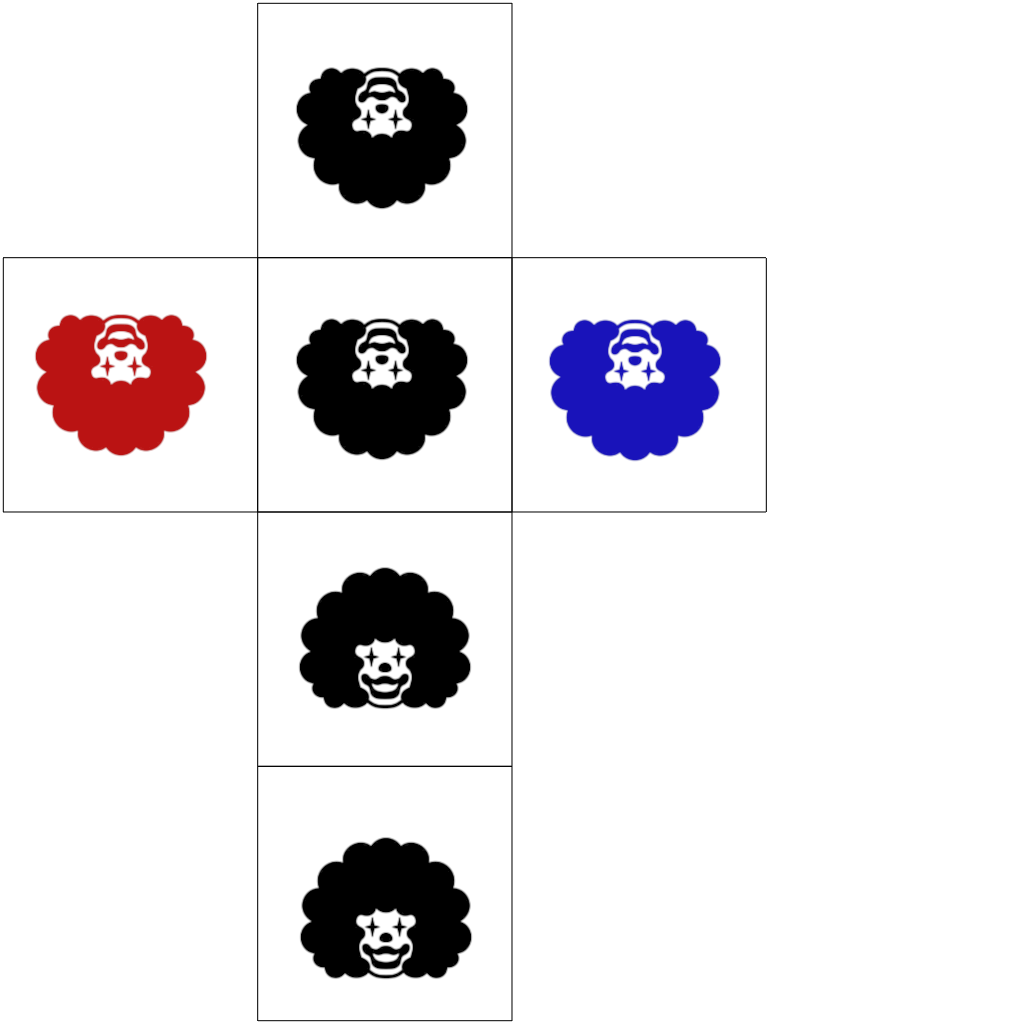
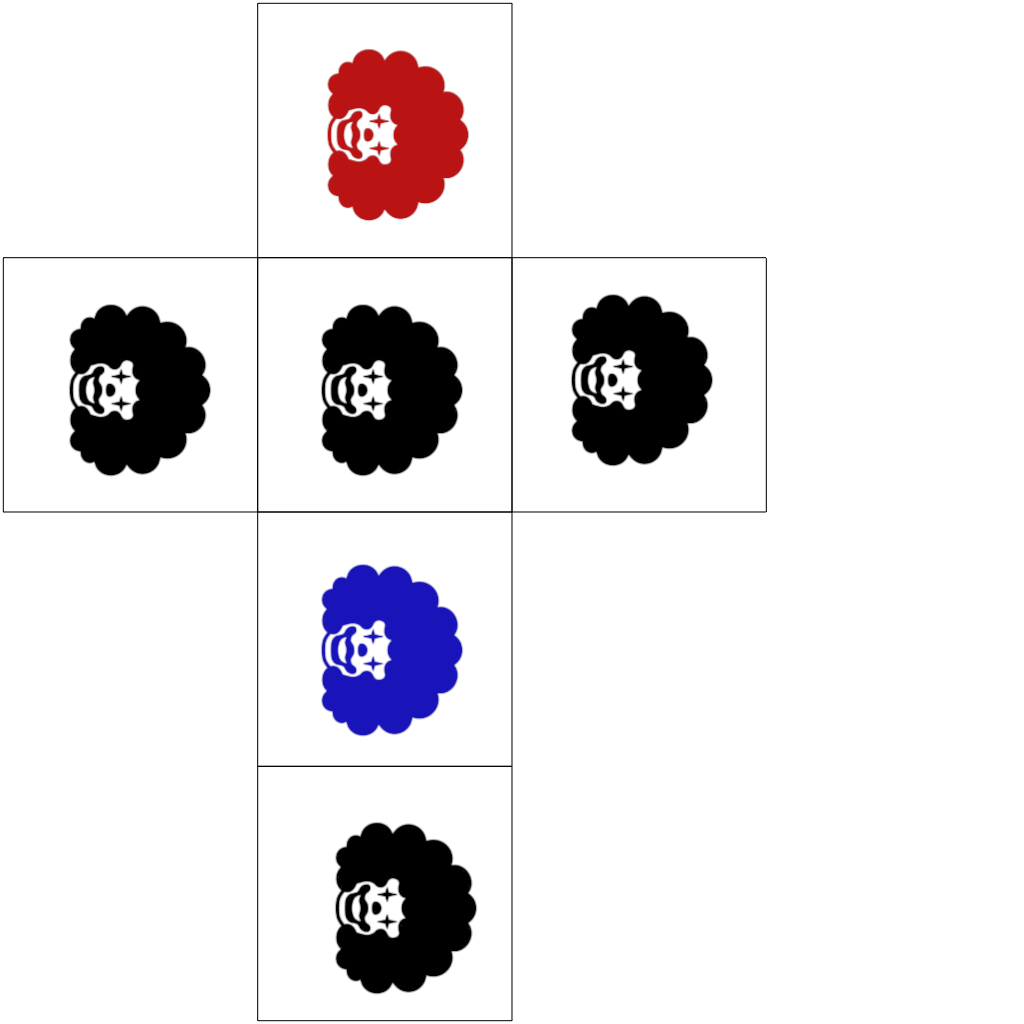
p24まで

diff --git a/DirectXGame/MapChipField.cpp b/DirectXGame/MapChipField.cpp
@@ -15,7 +15,7 @@ void MapChipField::ResetMapChipData() {
 
 	//マップチップデータをリセット
 	mapChipData_.data.clear();
-	mapChipData_.data.resize(kNumBlockVirtical);
+	mapChipData_.data.resize(kNumBlockVertical);
 	for (std::vector<MapChipType>& mapChipDataLine : mapChipData_.data) {
 		mapChipDataLine.resize(kNumBlockHorizontal);
 	}
@@ -39,7 +39,7 @@ void MapChipField::LoadMapChipCsv(const std::string& filePath) {
 	file.close();
 
 	//CSVからマップチップデータを読み込む
-	for (uint32_t i = 0; i < kNumBlockVirtical; i++) {
+	for (uint32_t i = 0; i < kNumBlockVertical; i++) {
 
 		std::string line;
 		getline(mapChipCsv, line);
@@ -64,7 +64,7 @@ MapChipType MapChipField::GetMapChipTypeByIndex(uint32_t xIndex, uint32_t yIndex
 	if (xIndex < 0 || kNumBlockHorizontal - 1 < xIndex) {
 		return MapChipType::kBlank;
 	}
-	if (yIndex < 0 || kNumBlockVirtical - 1 < yIndex) {
+	if (yIndex < 0 || kNumBlockVertical - 1 < yIndex) {
 		return MapChipType::kBlank;
 	}
 
@@ -74,7 +74,7 @@ MapChipType MapChipField::GetMapChipTypeByIndex(uint32_t xIndex, uint32_t yIndex
 Vector3 MapChipField::GetMapChipPositionByIndex(uint32_t xIndex, uint32_t yIndex) {
 	return Vector3(
 		kBlockWidth * xIndex,
-		kBlockHeight * static_cast<float>((kNumBlockVirtical - 1 - yIndex)),
+		kBlockHeight * static_cast<float>((kNumBlockVertical - 1 - yIndex)),
 		0);
 }
 
@@ -82,7 +82,7 @@ MapChipField::IndexSet MapChipField::GetMapChipIndexSetByPosition(const Vector3&
 
 	IndexSet indexSet = {};
 	indexSet.xIndex = static_cast<uint32_t>((position.x + kBlockWidth / 2) / kBlockWidth);
-	indexSet.yIndex = kNumBlockVirtical - 1 - static_cast<uint32_t>((position.y + kBlockHeight / 2) / kBlockHeight);
+	indexSet.yIndex = kNumBlockVertical - 1 - static_cast<uint32_t>((position.y + kBlockHeight / 2) / kBlockHeight);
 
 	return indexSet;
 }

diff --git a/DirectXGame/math/Vector3.cpp b/DirectXGame/math/Vector3.cpp
@@ -1,6 +1,64 @@
-#include "Vector3.h"
+#include "Vector3.h"
 #include "MyMath/MyMath.h"
+
+
+
+//===============================================================
+//		二項演算子
+//===============================================================
 
 Vector3 operator+(const Vector3& v1, const Vector3& v2) {
 	return MyMath::Add(v1, v2);
+}
+
+Vector3 operator-(const Vector3& v1, const Vector3& v2) {
+	return MyMath::Subtract(v1, v2);
+}
+
+Vector3 operator*(float s, const Vector3& v) {
+	return MyMath::Multiply(s, v);
+}
+
+Vector3 operator*(const Vector3& v, float s) {
+	return s * v;
+}
+
+Vector3 operator/(float s, const Vector3& v) {
+	return MyMath::Multiply(1.0f / s, v);
+}
+
+Vector3 operator/(const Vector3& v, float s) {
+	return s / v;
+}
+
+//===============================================================
+//		複合代入演算子
+//===============================================================
+
+Vector3 Vector3::operator+=(const Vector3& v) {
+	x += v.x;
+	y += v.y;
+	z += v.z;
+	return *this;
+}
+
+Vector3 Vector3::operator-=(const Vector3& v) {
+	x -= v.x;
+	y -= v.y;
+	z -= v.z;
+	return *this;
+}
+
+Vector3 Vector3::operator*=(float s) {
+	x *= s;
+	y *= s;
+	z *= s;
+	return *this;
+}
+
+Vector3 Vector3::operator/=(float s) {
+	x /= s;
+	y /= s;
+	z /= s;
+	return *this;
 }

diff --git a/DirectXGame/Enemy.cpp b/DirectXGame/Enemy.cpp
@@ -1,4 +1,5 @@
 #include "Enemy.h"
+#include "Math/MyMath/Easing.h"
 #include <numbers>
 
 Enemy::~Enemy() {
@@ -7,15 +8,39 @@ Enemy::~Enemy() {
 }
 
 void Enemy::Initialize() {
+
+	velocity_ = { -kWalkSpeed, 0, 0 };
 	//worldTransform初期化
 	worldTransform_.Initialize();
 	//初期回転
 	worldTransform_.rotation_.y = std::numbers::pi_v<float> / 2.0f;
 	//モデル初期化
-	model_ = model_ = Model::CreateFromOBJ("enemyPieroFace", true);
+	model_ = Model::CreateFromOBJ("enemyPieroFace", true);
+	//アニメーション経過時間の初期化
+	walkTimer_ = 0.0f;
 }
 
 void Enemy::Update() {
+
+	//タイマーの加算
+	walkTimer_ += 1.0f / 60.0f;
+
+	//回転アニメーション
+	float param = std::sin(2.0f * std::numbers::pi_v<float> * (walkTimer_ / kWalkMotionTime));
+	float radian = kWalkMotionAngleStart + kWalkMotionAngleEnd * (param + 1.0f) / 2.0f;
+	//状態に応じた角度を取得する
+	float destinationRotationZ = radian;
+	worldTransform_.rotation_.z = Easing::Liner(
+		destinationRotationZ,
+		kWalkMotionAngleStart,
+		Easing::EaseOut(walkTimer_)
+	);
+
+	if (walkTimer_ >= kWalkMotionTime) {
+		walkTimer_ = 0;
+	}
+
+	worldTransform_.translation_ += velocity_;
 
 #pragma region 行列の更新
 	worldTransform_.UpdateMatrix();

diff --git a/DirectXGame/Enemy.h b/DirectXGame/Enemy.h
@@ -1,14 +1,13 @@
 #pragma once
-#include "Input.h"
 #include "Model.h"
-#include "Sprite.h"
 #include "WorldTransform.h"
 #include "ViewProjection.h"
 
+class MapChipField;
 class Enemy {
 public:
 
-	Enemy();
+	Enemy() = default;
 	~Enemy();
 
 	/// <summary>
@@ -30,14 +29,31 @@ public:
 
 	void SetPos(Vector3 pos) { worldTransform_.translation_ = pos; }
 
+	void SetMapChipField(MapChipField* mapChipField) { mapChipField_ = mapChipField; }
+
 private:
 
+	//歩行の速さ
+	static inline const float kWalkSpeed = 0.1f;
+	//最初の角度[度]
+	static inline const float kWalkMotionAngleStart = 0.0f;
+	//最後の角度[度]
+	static inline const float kWalkMotionAngleEnd = 3.0f;
+	//アニメーションの周期となる時間[秒]
+	static inline const float kWalkMotionTime = 1.0f;
+
+	//速度
+	Vector3 velocity_;
+	//マップチップフィールド
+	MapChipField* mapChipField_ = nullptr;
 	//ワールド変換データ
 	WorldTransform worldTransform_;
 	//ビュープロジェクション
 	ViewProjection* viewProjection_ = nullptr;
 	//モデル
 	Model* model_ = nullptr;
+	//経過時間
+	float walkTimer_;
 
 };
 

diff --git a/DirectXGame/scene/GameScene.cpp b/DirectXGame/scene/GameScene.cpp
@@ -75,8 +75,8 @@ void GameScene::Initialize() {
 
 	enemy_ = new Enemy();
 	enemy_->Initialize();
-	enemy_->SetPos(mapChipField_->GetMapChipPositionByIndex(1, 20));
-
+	enemy_->SetPos(mapChipField_->GetMapChipPositionByIndex(10, 18));
+	enemy_->SetMapChipField(mapChipField_);
 	//ブロックの生成
 	GenerateBlocks();
 
@@ -180,7 +180,7 @@ void GameScene::Draw() {
 	//プレイヤー描画
 	player_->Draw(cameraController_->GetViewProjection());
 	//エネミーの描画
-	enemy_->Draw(debugCamera_->GetViewProjection());
+	enemy_->Draw(cameraController_->GetViewProjection());
 
 	// 3Dオブジェクト描画後処理
 	Model::PostDraw();

diff --git a/DirectXGame/MapChipField.h b/DirectXGame/MapChipField.h
@@ -40,8 +40,8 @@ public:
 	static inline const float kBlockHeight = 2.0f;
 
 	//ブロックの個数
-	static inline const uint32_t kNumBlockVirtical = 20;
-	static inline const uint32_t kNumBlockHorizontal = 20;
+	static inline const uint32_t kNumBlockVertical = 20;
+	static inline const uint32_t kNumBlockHorizontal = 45;
 
 	/// <summary>
 	/// 読み込み済みをリセットする関数
@@ -75,7 +75,7 @@ public:
 
 
 
-	uint32_t GetNumBlockVirtical() { return kNumBlockVirtical; }
+	uint32_t GetNumBlockVirtical() { return kNumBlockVertical; }
 	uint32_t GetNumBlockHorizontal() { return kNumBlockHorizontal; }
 
 private:

diff --git a/DirectXGame/math/Vector3.h b/DirectXGame/math/Vector3.h
@@ -7,6 +7,16 @@ struct Vector3 final {
 	float x;
 	float y;
 	float z;
+
+	Vector3 operator+=(const Vector3& v);
+	Vector3 operator-=(const Vector3& v);
+	Vector3 operator*=(float s);
+	Vector3 operator/=(float s);
 };
 
 Vector3 operator+(const Vector3& v1, const Vector3& v2);
+Vector3 operator-(const Vector3& v1, const Vector3& v2);
+Vector3 operator*(float s, const Vector3& v);
+Vector3 operator*(const Vector3& v, float s);
+Vector3 operator/(float s, const Vector3& v);
+Vector3 operator/(const Vector3& v, float s);

diff --git a/DirectXGame/math/MyMath/MyMath.cpp b/DirectXGame/math/MyMath/MyMath.cpp
@@ -32,6 +32,14 @@ Vector3 MyMath::Multiply(float scalar, const Vector3& v) {
 	return result;
 }
 
+Vector3 MyMath::Divide(float scalar, const Vector3& v) {
+	Vector3 result;
+	result.x = scalar / v.x;
+	result.y = scalar / v.y;
+	result.z = scalar / v.z;
+	return result;
+}
+
 //内積
 float MyMath::Dot(const Vector3& v1, const Vector3& v2) {
 	float result;

diff --git a/DirectXGame/math/MyMath/MyMath.h b/DirectXGame/math/MyMath/MyMath.h
@@ -12,6 +12,9 @@ public:
 	//乗算
 	static Vector3 Multiply(float scalar, const Vector3& v);
 
+	//商算
+	static Vector3 Divide(float scalar, const Vector3& v);
+
 	//内積
 	static float Dot(const Vector3& v1, const Vector3& v2);
 
